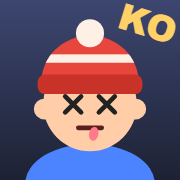
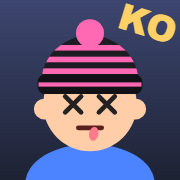
Black beanie with pink stripes, remove freckles

Changed region(s): [[0.1944, 0.0833, 0.8056, 0.5278]]

diff --git a/game.js b/game.js
@@ -1,6 +1,6 @@
 'use strict';
 // Bye Bye Angus — a slapstick ragdoll toy. Bump APP_VERSION (+ sw.js VERSION + ?v= in index.html) on every change.
-const APP_VERSION = '1.1.0';
+const APP_VERSION = '1.2.0';
 const STORE_KEY = 'angus.v1';
 
 const WEAPONS = [
@@ -111,7 +111,7 @@ const clamp = (v, a, b) => v < a ? a : v > b ? b : v;
 function mix(c1, c2, t) { return 'rgb(' + [0, 1, 2].map(i => Math.round(c1[i] + (c2[i] - c1[i]) * t)).join(',') + ')'; }
 const C = {
   skin: [255, 205, 168], hoodie: [76, 132, 255], jeans: [52, 70, 120], shoe: [40, 40, 48],
-  beanie: [230, 70, 60], beanie2: [255, 240, 230], hair: [120, 70, 40], char: [36, 32, 32], ice: [170, 225, 255],
+  beanie: [28, 28, 34], beanie2: [255, 105, 180], hair: [120, 70, 40], char: [36, 32, 32], ice: [170, 225, 255],
 };
 
 // ---------- the ragdoll ----------
@@ -709,8 +709,8 @@ function drawRoom() {
   const fx = W * 0.22, fy = wy + 0.4 * S;
   ctx.fillStyle = '#c99a5b'; ctx.fillRect(fx - 1.2 * S, fy, 2.4 * S, 1.8 * S);
   ctx.fillStyle = '#f4ead8'; ctx.fillRect(fx - 1 * S, fy + 0.2 * S, 2 * S, 1.4 * S);
-  ctx.fillStyle = '#e6463c'; ctx.beginPath(); ctx.arc(fx, fy + 1.1 * S, 0.45 * S, Math.PI, 0); ctx.fill();
-  ctx.fillStyle = '#fff'; ctx.beginPath(); circ(fx, fy + 0.58 * S, 0.14 * S); ctx.fill();
+  ctx.fillStyle = '#1c1c22'; ctx.beginPath(); ctx.arc(fx, fy + 1.1 * S, 0.45 * S, Math.PI, 0); ctx.fill(); ctx.fillStyle = '#ff69b4'; ctx.fillRect(fx - 0.4 * S, fy + 0.85 * S, 0.8 * S, 0.07 * S);
+  ctx.fillStyle = '#ff69b4'; ctx.beginPath(); circ(fx, fy + 0.58 * S, 0.14 * S); ctx.fill();
   // floor
   const fg = ctx.createLinearGradient(0, floorY, 0, H);
   fg.addColorStop(0, '#8a5a3c'); fg.addColorStop(1, '#5e3a25');
@@ -722,17 +722,18 @@ function drawRoom() {
 
 function drawBeanie(x, y, rot, r, charAmt) {
   ctx.save(); ctx.translate(x, y); ctx.rotate(rot); ctx.translate(0, -0.2 * r);
-  const main = mix(C.beanie, C.char, charAmt * 0.8), band = mix([200, 50, 45], C.char, charAmt * 0.8), stripe = mix(C.beanie2, C.char, charAmt * 0.8);
+  const main = mix(C.beanie, C.char, charAmt * 0.8), band = mix([18, 18, 22], C.char, charAmt * 0.8), stripe = mix(C.beanie2, C.char, charAmt * 0.8);
   // dome
   ctx.fillStyle = main;
   ctx.beginPath(); ctx.ellipse(0, -0.25 * r, 1.04 * r, 1.0 * r, 0, Math.PI, 0); ctx.closePath(); ctx.fill();
   // stripe
   ctx.save(); ctx.beginPath(); ctx.ellipse(0, -0.25 * r, 1.04 * r, 1.0 * r, 0, Math.PI, 0); ctx.clip();
-  ctx.fillStyle = stripe; ctx.fillRect(-1.2 * r, -0.85 * r, 2.4 * r, 0.18 * r); ctx.restore();
+  ctx.fillStyle = stripe; [-1.05, -0.8, -0.55].forEach(y => ctx.fillRect(-1.2 * r, y * r, 2.4 * r, 0.12 * r)); ctx.restore();
   // folded band
   ctx.fillStyle = band;
   roundRect(-1.12 * r, -0.42 * r, 2.24 * r, 0.42 * r, 0.16 * r); ctx.fill();
-  ctx.strokeStyle = 'rgba(0,0,0,0.15)'; ctx.lineWidth = Math.max(1, r * 0.06);
+  ctx.fillStyle = stripe; ctx.fillRect(-1.1 * r, -0.25 * r, 2.2 * r, 0.09 * r);
+  ctx.strokeStyle = 'rgba(255,255,255,0.1)'; ctx.lineWidth = Math.max(1, r * 0.06);
   for (let i = -4; i <= 4; i++) { ctx.beginPath(); ctx.moveTo(i * 0.24 * r, -0.38 * r); ctx.lineTo(i * 0.24 * r, -0.04 * r); ctx.stroke(); }
   // pompom
   ctx.fillStyle = stripe; ctx.beginPath(); circ(0, -1.3 * r, 0.3 * r); ctx.fill();
@@ -845,11 +846,9 @@ function drawHead(b, col) {
   } else {
     ctx.beginPath(); ctx.moveTo(-0.9 * r, -0.35 * r); ctx.quadraticCurveTo(-0.5 * r, -0.05 * r, -0.2 * r, -0.4 * r); ctx.quadraticCurveTo(0.2 * r, -0.1 * r, 0.6 * r, -0.4 * r); ctx.lineTo(0.9 * r, -0.4 * r); ctx.lineTo(0.9 * r, -0.5 * r); ctx.lineTo(-0.9 * r, -0.5 * r); ctx.fill();
   }
-  // cheeks + freckles
+  // cheeks
   ctx.fillStyle = 'rgba(255,110,110,0.25)';
   ctx.beginPath(); circ(-0.55 * r, 0.35 * r, 0.18 * r); circ(0.55 * r, 0.35 * r, 0.18 * r); ctx.fill();
-  ctx.fillStyle = 'rgba(150,80,50,0.5)';
-  [[-0.6, 0.22], [-0.48, 0.3], [-0.62, 0.38], [0.6, 0.22], [0.48, 0.3], [0.62, 0.38]].forEach(([x, y]) => { ctx.beginPath(); circ(x * r, y * r, 0.035 * r); ctx.fill(); });
   // eyes
   const ex = 0.36 * r, ey = 0.02 * r;
   ctx.strokeStyle = '#222'; ctx.fillStyle = '#222'; ctx.lineWidth = Math.max(1.5, 0.09 * r); ctx.lineCap = 'round';

diff --git a/tools/icon.html b/tools/icon.html
@@ -6,8 +6,8 @@ x.fillStyle='#ffcda8';x.beginPath();x.arc(cx-r*0.98,cy+r*0.1,r*0.22,0,7);x.moveT
 x.strokeStyle='#222';x.lineWidth=r*0.1;x.lineCap='round';[-1,1].forEach(s=>{const ex=cx+s*r*0.36,ey=cy,k=r*0.17;x.beginPath();x.moveTo(ex-k,ey-k);x.lineTo(ex+k,ey+k);x.moveTo(ex+k,ey-k);x.lineTo(ex-k,ey+k);x.stroke();});
 x.strokeStyle='#5a2020';x.beginPath();x.moveTo(cx-r*0.25,cy+r*0.5);x.lineTo(cx+r*0.25,cy+r*0.5);x.stroke();
 x.fillStyle='#ff7a8a';x.beginPath();x.ellipse(cx+r*0.08,cy+r*0.63,r*0.1,r*0.15,0.2,0,7);x.fill();
-x.save();x.translate(0,-r*0.22);x.fillStyle='#e6463c';x.beginPath();x.ellipse(cx,cy-r*0.25,r*1.04,r,0,Math.PI,0);x.closePath();x.fill();
-x.save();x.beginPath();x.ellipse(cx,cy-r*0.25,r*1.04,r,0,Math.PI,0);x.clip();x.fillStyle='#fff0e6';x.fillRect(cx-r*1.1,cy-r*0.85,r*2.2,r*0.18);x.restore();x.fillStyle='#fff0e6';x.beginPath();x.arc(cx,cy-r*1.3,r*0.3,0,7);x.fill();
-x.fillStyle='#c83228';x.beginPath();x.roundRect(cx-r*1.12,cy-r*0.42,r*2.24,r*0.42,r*0.16);x.fill();x.restore();
+x.save();x.translate(0,-r*0.22);x.fillStyle='#1c1c22';x.beginPath();x.ellipse(cx,cy-r*0.25,r*1.04,r,0,Math.PI,0);x.closePath();x.fill();
+x.save();x.beginPath();x.ellipse(cx,cy-r*0.25,r*1.04,r,0,Math.PI,0);x.clip();x.fillStyle='#ff69b4';[-1.05,-0.8,-0.55].forEach(t=>x.fillRect(cx-r*1.1,cy+t*r,r*2.2,r*0.12));x.restore();x.fillStyle='#ff69b4';x.beginPath();x.arc(cx,cy-r*1.3,r*0.3,0,7);x.fill();
+x.fillStyle='#121216';x.beginPath();x.roundRect(cx-r*1.12,cy-r*0.42,r*2.24,r*0.42,r*0.16);x.fill();x.fillStyle='#ff69b4';x.fillRect(cx-r*1.1,cy-r*0.25,r*2.2,r*0.09);x.restore();
 x.fillStyle='#ffd166';x.font=`900 ${n*0.2}px sans-serif`;x.textAlign='center';x.save();x.translate(n*0.8,n*0.2);x.rotate(0.3);x.fillText('KO',0,0);x.restore();
 </script></body></html>

diff --git a/index.html b/index.html
@@ -12,7 +12,7 @@
   <link rel="apple-touch-icon" href="icons/apple-touch-icon.png">
   <link rel="icon" type="image/png" sizes="192x192" href="icons/icon-192.png">
   <link rel="manifest" href="manifest.webmanifest">
-  <link rel="stylesheet" href="style.css?v=2">
+  <link rel="stylesheet" href="style.css?v=3">
 </head>
 <body>
   <canvas id="game"></canvas>
@@ -49,6 +49,6 @@
     </div>
   </div>
 
-  <script src="game.js?v=2"></script>
+  <script src="game.js?v=3"></script>
 </body>
 </html>

diff --git a/sw.js b/sw.js
@@ -1,6 +1,6 @@
 // Caches the game so it opens and plays with no internet connection.
 // Bump VERSION (and APP_VERSION in game.js) whenever you change any file.
-const VERSION = 'angus-v2';
+const VERSION = 'angus-v3';
 const FILES = [
   './',
   'index.html',
